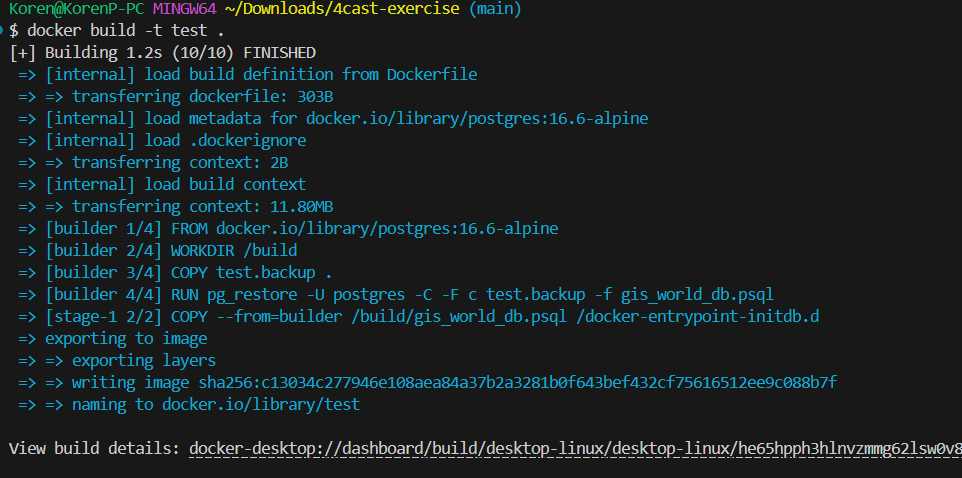
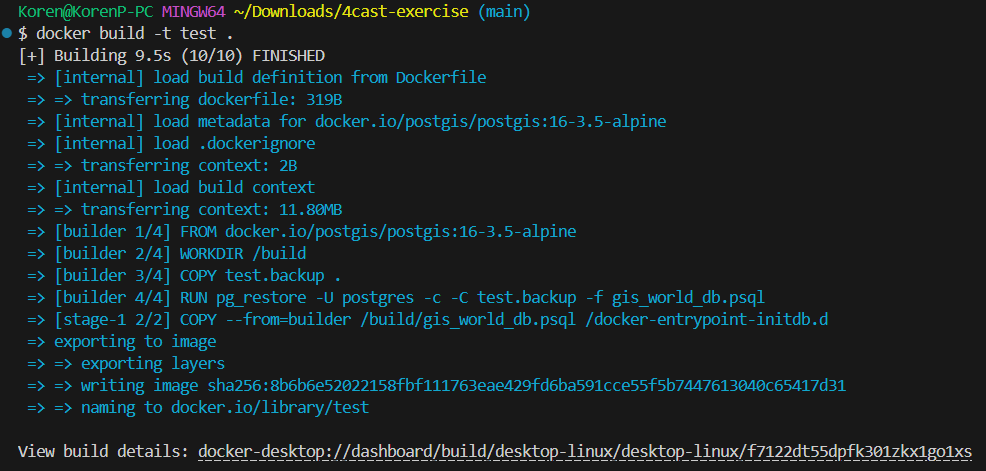
PostGIS extension

Changed region(s): [[0.0, 0.0, 0.8732, 0.8917], [0.0, 0.9214, 1.0, 0.9809]]

diff --git a/README.md b/README.md
@@ -4,9 +4,11 @@ Creating predefined postgres docker containers is not recommended, The recommend
 
 If it was a complex system I would consider using bitnami image as base image which makes everything more configurable and easy to use in kubernetes/openshift environment and have an official supported postgres helm chart. which i have contributed in the past. https://github.com/bitnami/charts/pull/27734
 
-I chose using postgres image with 16.6-alpine tag because it reduces image size while using alpine linux distribution. you can use even smaller distroless images for more reduced image size but i wanted to maintain official support of postgres and alpine images.
+We do need the postgis extension so I chose using postgis image with 16-3.5-alpine tag because it reduces image size while using alpine linux distribution. you can use even smaller distroless images for more reduced image size but i wanted to maintain official support of postgres and alpine images.
 
 For the Dockerfile I used multistage building that in the first stage im "compiling" the new psql file with pg_restore command and for the next stage im copying the new gis_world_db.psql file to the /docker-entrypoint-initdb.d directory which runs it in the first setup of the postgres cluster which called migrations.
+
+I didnt add entrypoint/cmd/expose keywords in the dockerfile because it is already configured in the base image.
 
 Im adding screenshot of the difference in size of regular postgres image and alpine based image.
 
